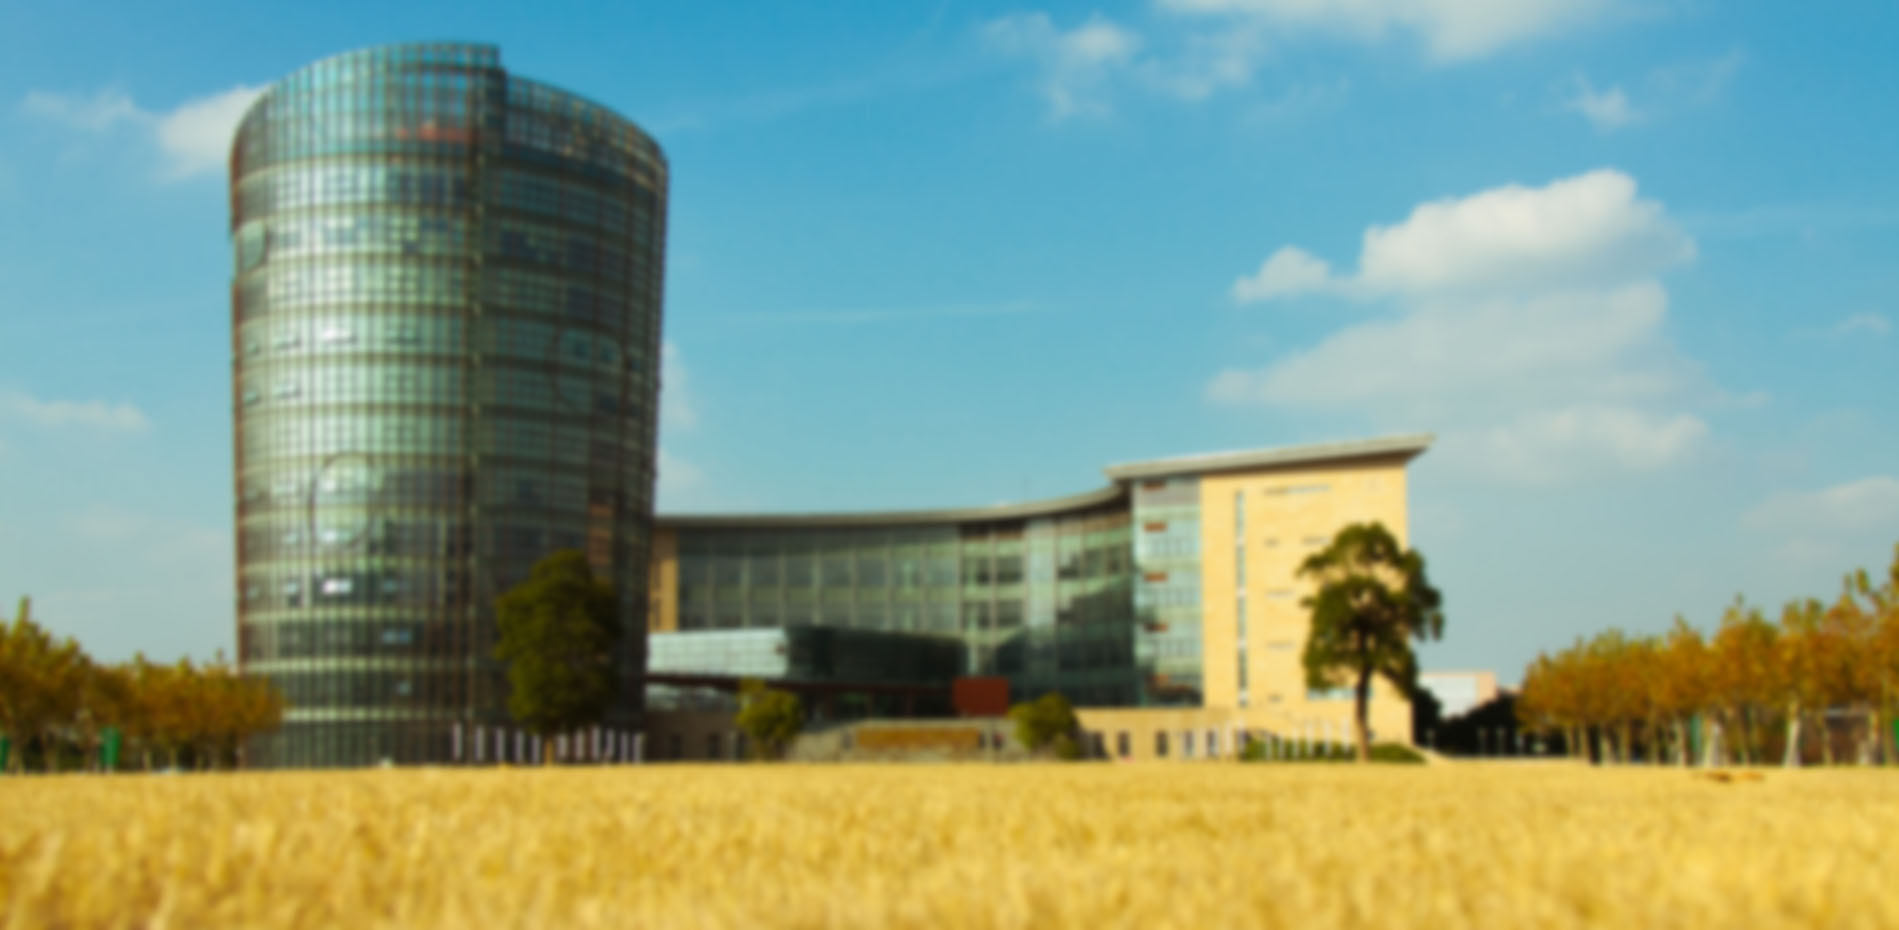
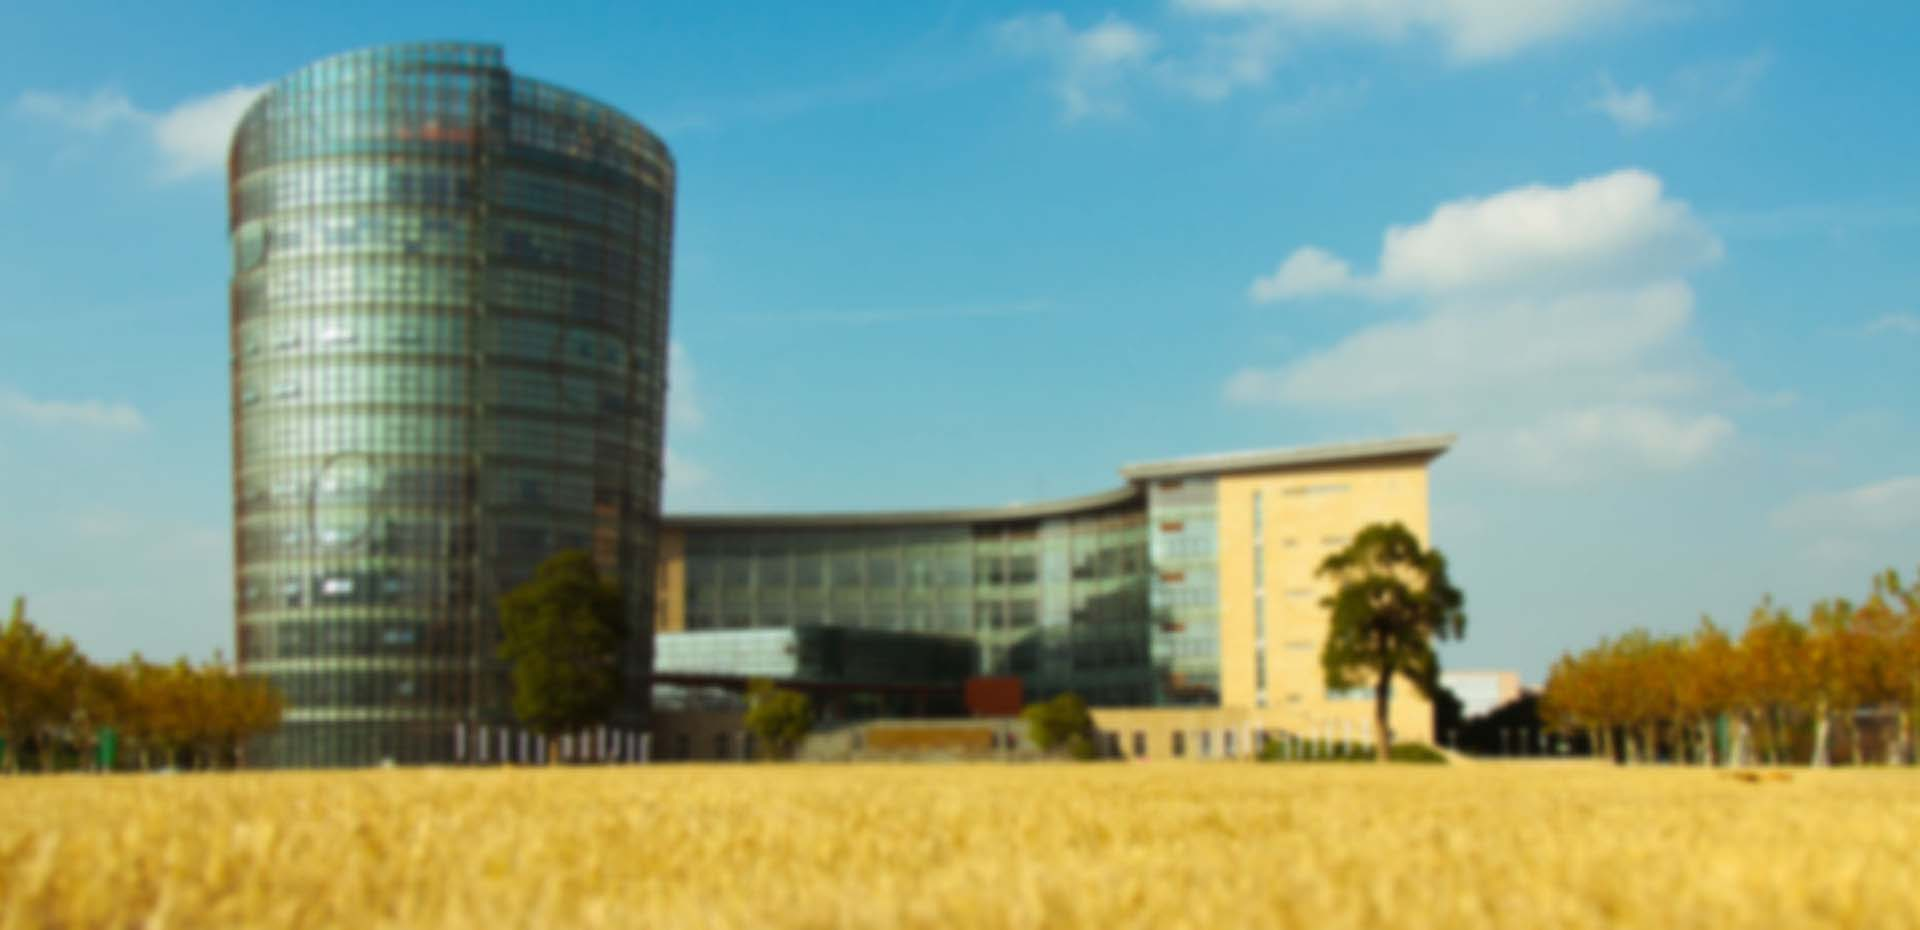
renew the back.jpg width to 1080px

diff --git a/Application/Runtime/Cache/Home/ce7352f284dc0bd7cc515513e5b55e8a.php b/Application/Runtime/Cache/Home/ce7352f284dc0bd7cc515513e5b55e8a.php
@@ -2,7 +2,7 @@
 <html lang="en">
     <head>
         <meta charset="utf-8" />
-        <title>test</title>
+        <title>ECNU Mind</title>
         <link rel="Stylesheet" type="text/css" href="/webprj/ecnu_mind/Public/css/nav.css" /> 
         <link rel="Stylesheet" type="text/css" href="/webprj/ecnu_mind/Public/css/Person.css" />
         <link rel="Stylesheet" type="text/css" href="/webprj/ecnu_mind/Public/css/radios.min.css" />   
